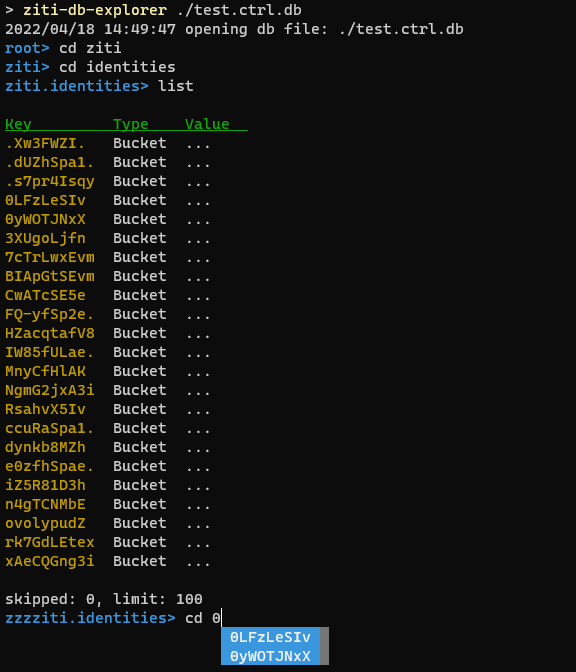
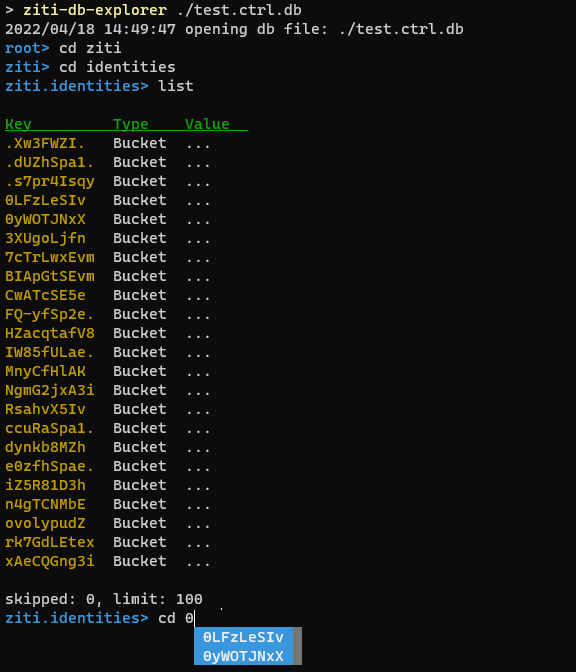
image example update, readme update for embedding

Changed region(s): [[0.0312, 0.9062, 0.5938, 1.0]]

diff --git a/README.md b/README.md
@@ -52,3 +52,10 @@ show          print the full value of a key
 stats-bucket  show stats for the current bucket
 stats-db      show stats for the db
 ```
+
+# Embedding
+
+This repository contains two go modules that are intended for import:
+
+- `./cmd/ziti-db-explorer/zdecli` - The `Run()` method is exposed in order to make the entire CLI embeddable in other tools
+- `./zdelib` - Provides low level access to bbolt and boltz primitives to create your own tools
